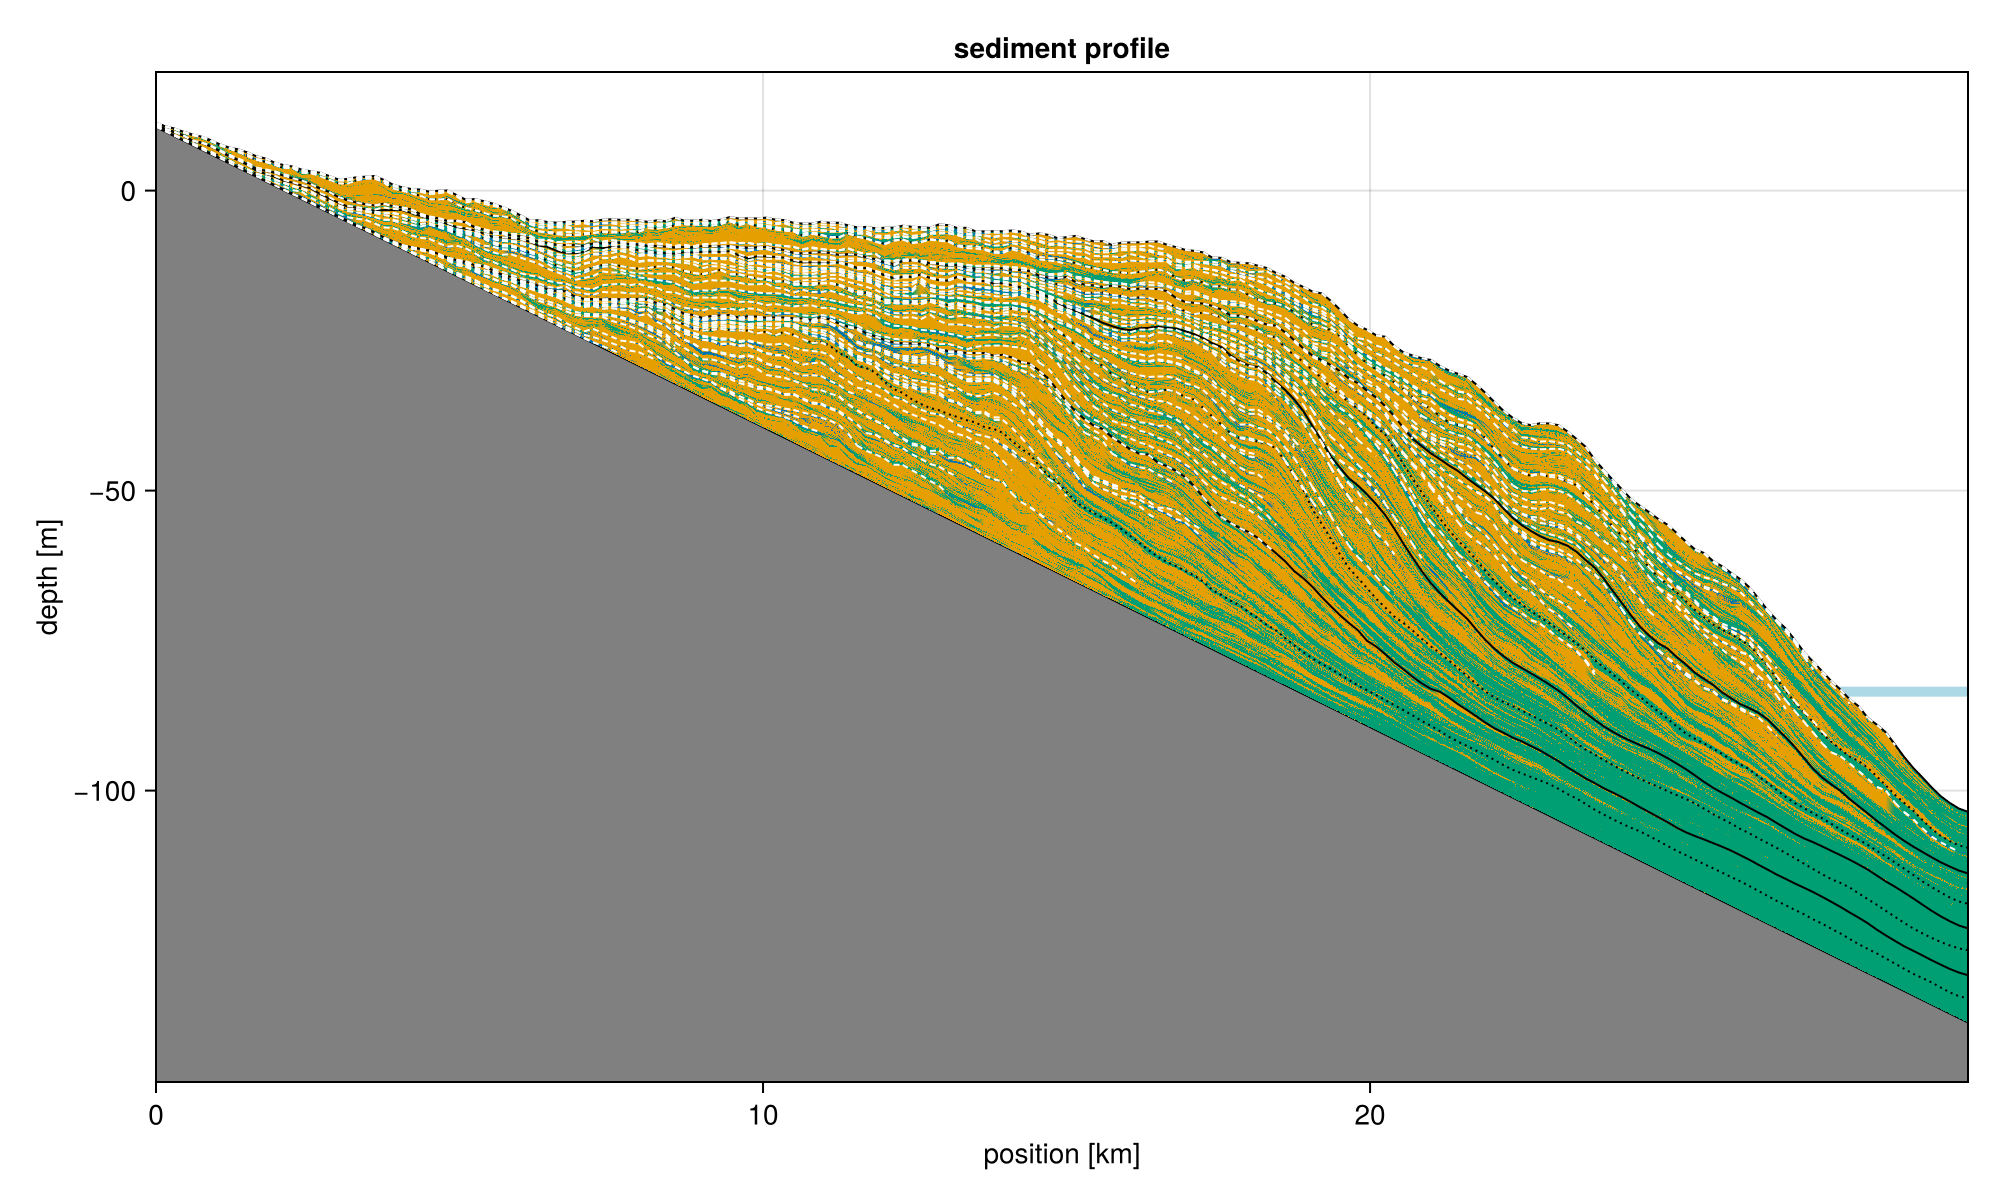
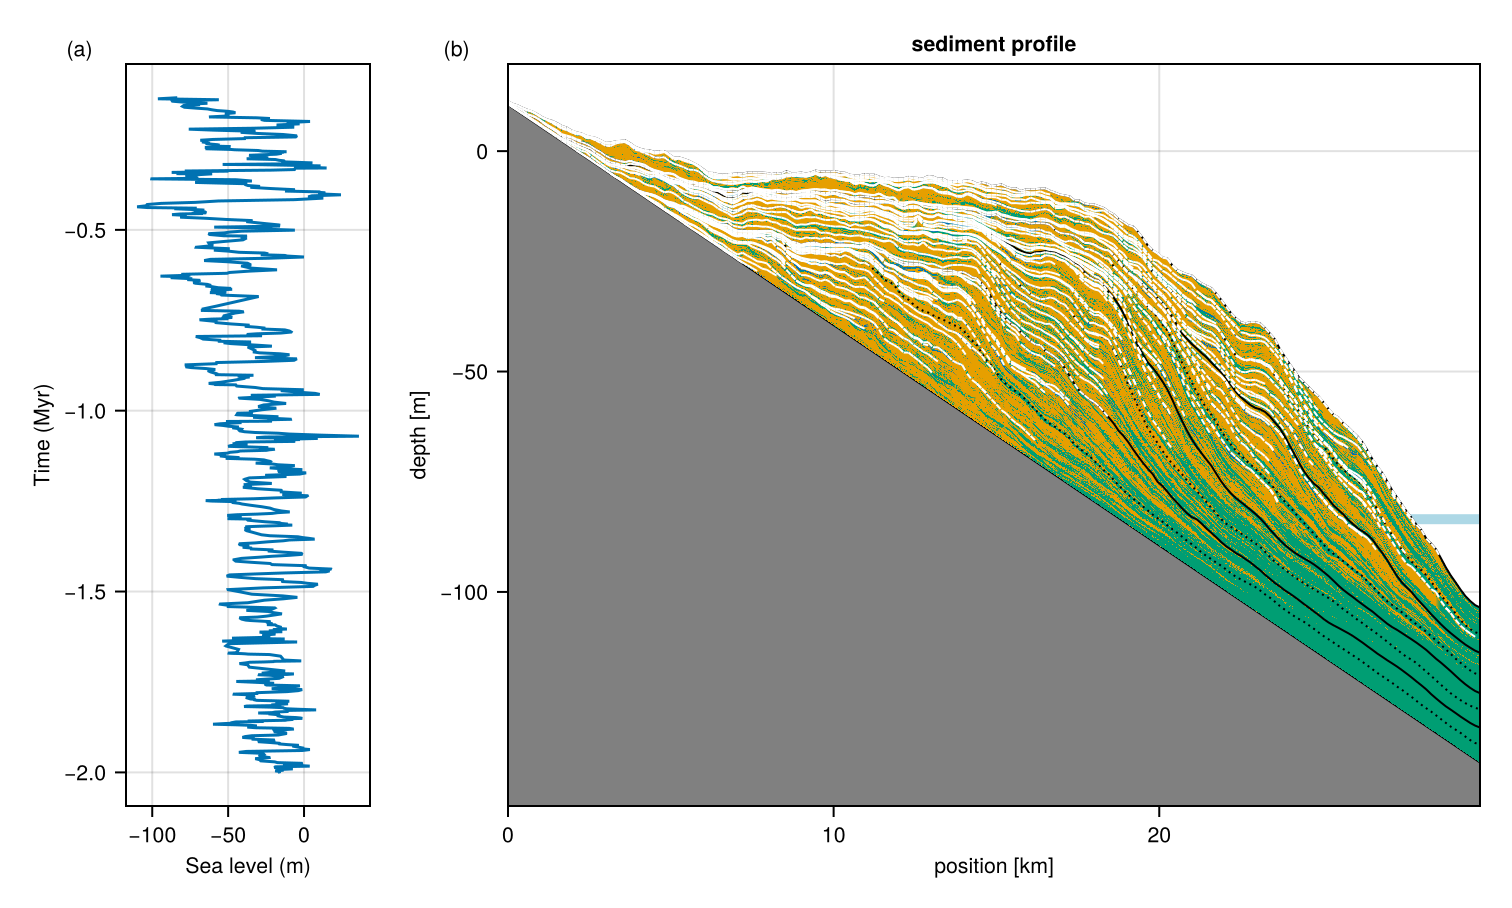
implement sealevel curve for variable sealevel case; needs some discussion/adjustment

diff --git a/md/paper.md b/md/paper.md
@@ -1746,7 +1746,7 @@ using Interpolations
 using CategoricalArrays
 using CarboKitten.DataSets: artifact_dir
 using CairoMakie
-using CarboKitten.Visualization: sediment_profile
+using CarboKitten.Visualization: sediment_profile!
 using CarboKitten.Export: read_slice
 
 function miller_2020()
@@ -1825,15 +1825,38 @@ function main()
     run_model(Model{ALCAP}, INPUT, "data/variable-sl.h5")
 end
 
-function plot(result)
-    h, d = read_slice(result, :profile)
-    fig = sediment_profile(h, d)
+function plot(result_file)
+    header, result_profile = read_slice(result_file, :profile)
+
+    inch = 96
+    pt = 4/3
+    cm = inch / 2.54
+
+    fig = Figure(size=(20cm, 12cm), fontsize=8pt)
+    ax_left = Axis(fig[1, 1])
+    ax_right = Axis(fig[1, 2])
+    colsize!(fig.layout, 1, Relative(0.2))
+    Label(fig[1, 1, TopLeft()], "(a)")
+    Label(fig[1, 2, TopLeft()], "(b)")
+
+    sl_fn = sea_level()
+    times = collect(time_axis(TIME_PROPERTIES))
+    sl_values = [ustrip(u"m", sl_fn(t)) for t in times]
+    times_myr = ustrip.(u"Myr", times)
+
+    lines!(ax_left, sl_values, times_myr)
+    ax_left.xlabel = "Sea level (m)"
+    ax_left.ylabel = "Time (Myr)"
+
+    sediment_profile!(ax_right, header, result_profile)
+
     save("md/fig/variable-sl.png", fig)
 end
 
 end
 
-result = VariableSL.main()
+# result = VariableSL.main()
+result = "data/variable-sl.h5"
 VariableSL.plot(result)
 ```
 
@@ -1898,7 +1921,6 @@ The insolation file can be read into a CarboKitten script defining the model to 
 
 ```julia
 #| file: runs/insolation_run.jl
-
 module Insolation
 
 using CarboKitten
@@ -1985,7 +2007,11 @@ const INPUT = ALCAP.Input(
     end
 
     function plot(result::MemoryOutput)
-        fig = Figure(size=(1250, 600))
+        inch = 96
+        pt = 4/3
+        cm = inch / 2.54
+
+        fig = Figure(size=(20cm, 12cm), fontsize=8pt)
         ax_left = Axis(fig[1, 1])
         ax_right = Axis(fig[1, 2])
         colsize!(fig.layout, 1, Relative(0.2))
@@ -2097,6 +2123,7 @@ Script.main()
 #| classes: ["task"]
 #| creates: data/atoll.h5
 #| collect: atoll
+
 module Atoll
 
 using CarboKitten
